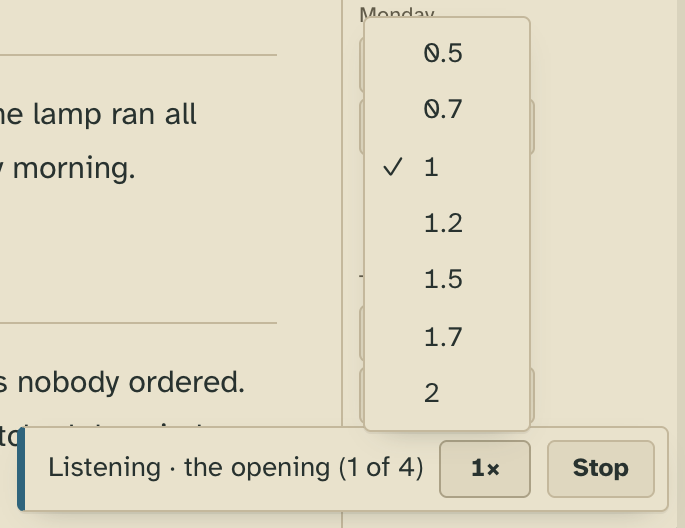
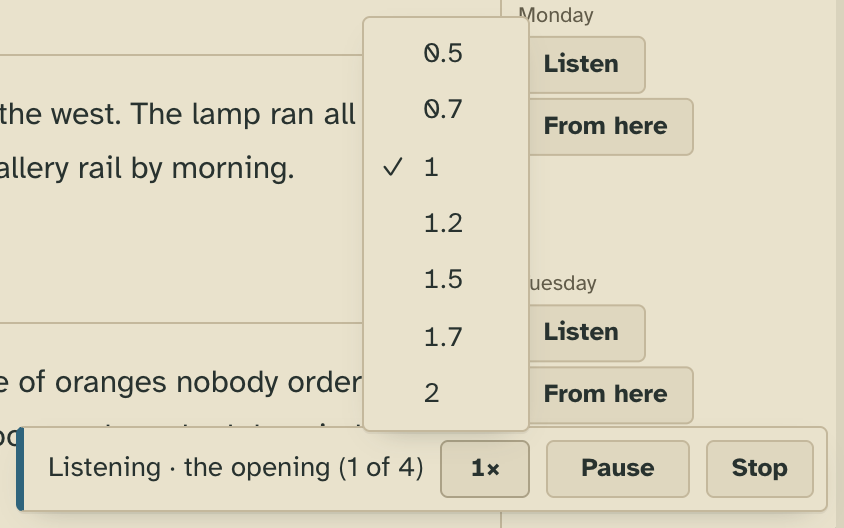
Narrate's player pauses and resumes a reading where it is
The player gains Pause beside the speed and Stop: it holds the voice where it is, the chunk sounding
or the next about to (a voiced chunk that comes due while paused waits for the resume), and turns to
Resume, in every player at once. The palette gains Pause listening and Resume listening. A stop while
paused ends the chunk held and clears the pause, so the next reading sounds; a memo that comes
meanwhile waits its turn. The README and the player's pictures show it; narrate moves to 1.9.

diff --git a/examples/extensions/narrate/client/voice.js b/examples/extensions/narrate/client/voice.js
@@ -4,7 +4,8 @@
  * and played in order through one audio element, the next voiced while one plays; without one, the browser's own
  * speech (`speechSynthesis`) reads them. A narration is told through its track: `at(part)` as a part starts sounding,
  * and `end()` once, as it ends or is stopped. A memo (`interject`) is said at once when nothing reads; while something
- * does, it waits for the chunk sounding to end, is said, and the reading goes on.
+ * does, it waits for the chunk sounding to end, is said, and the reading goes on. A narration paused holds where it is,
+ * the chunk sounding or the next about to, until it is resumed or stopped; a memo that comes meanwhile waits its turn.
  */
 
 /** The most characters voiced in one call: a chunk is cut at a paragraph, else a sentence, else a space. */
@@ -45,6 +46,28 @@ let waiting = []
 /** The track of the memo sounding between chunks, ended by a stop. @type {Track | undefined} */
 let saying
 
+/** Whether the narration is paused: from a pause until a resume, a stop or its end. */
+let paused = false
+
+/** The chunk's start a pause held back: it came due while paused, and sounds on resume. @type {(() => void) | undefined} */
+let held
+
+/**
+ * The chunk the audio holds, from its source set until it ends: `end` ends it, as a stop does (a paused audio fires no
+ * pause to end it), `fail` with an error. @type {{ end(): void, fail(err: Error): void } | undefined}
+ */
+let chunk
+
+/** Told of every pause and resume, with whether it is now paused. @type {Set<(paused: boolean) => void>} */
+const hearing = new Set()
+
+/** Tells those hearing whether the narration is paused now, as that changes. @param {boolean} now */
+const pausing = (now) => {
+  if (paused === now) return
+  paused = now
+  for (const heard of hearing) heard(now)
+}
+
 /** The current narration's utterances, held while they are read: WebKit fires no event on one nothing holds. */
 let utterances = []
 
@@ -84,21 +107,25 @@ const voiced = async (tower, text) => {
 const chunked = (parts) => parts.flatMap((text, part) => chunksOf(text).map((chunk) => ({ text: chunk, part })))
 
 /**
- * Plays `url` for narration `mine`, calling `onStart` once it sounds: to its end, or until a halt pauses it. A pause
- * from elsewhere (a media key) stays a pause. Rejects when it can't play.
+ * Plays `url` for narration `mine`, calling `onStart` once it sounds: to its end, or until a halt ends it. A pause,
+ * ours or from elsewhere (a media key), stays a pause; one that comes before it sounds holds its start until resumed.
+ * Rejects when it can't play.
  */
 const play = (url, mine, onStart) =>
   new Promise((resolve, reject) => {
     const done = (err) => {
       audio.onended = audio.onpause = audio.onerror = null
+      chunk = undefined
       URL.revokeObjectURL(url)
       err ? reject(err) : resolve()
     }
     audio.onended = () => done()
     audio.onpause = () => mine !== current && done()
     audio.onerror = () => done(new Error(`the voice's audio won't play: ${audio.error?.message || `media error ${audio.error?.code}`}`))
+    chunk = { end: () => done(), fail: done }
     audio.src = url
-    audio.play().then(onStart, (err) => done(mine === current ? err : undefined))
+    const start = () => void audio.play().then(onStart, (err) => done(mine === current ? err : undefined))
+    paused ? (held = start) : start()
   })
 
 /**
@@ -139,6 +166,8 @@ const once = (fn) => {
 const finish = (mine) => {
   if (mine !== current) return
   reading = false
+  held = undefined
+  pausing(false)
   const end = ending
   ending = () => {}
   end()
@@ -255,8 +284,12 @@ const sayingNow = (memo) => {
 /** Stops whichever voice reads, ends its track, and answers the number of a narration started now. */
 const halt = () => {
   speechSynthesis.cancel()
+  speechSynthesis.resume()
   utterances = []
   audio.pause()
+  chunk?.end()
+  held = undefined
+  pausing(false)
   reading = false
   saying?.end()
   saying = undefined
@@ -270,4 +303,32 @@ const halt = () => {
 export function stop() {
   waiting = []
   halt()
+}
+
+/** Pauses the narration where it is, the chunk sounding or the next about to, while one reads. */
+export function pause() {
+  if (!reading || paused) return
+  pausing(true)
+  speechSynthesis.pause()
+  audio.pause()
+}
+
+/** Goes on reading from where the narration was paused. */
+export function resume() {
+  if (!paused) return
+  pausing(false)
+  speechSynthesis.resume()
+  const start = held
+  held = undefined
+  if (start) start()
+  else if (chunk) audio.play().catch(chunk.fail)
+}
+
+/** Whether the narration is paused now. */
+export const isPaused = () => paused
+
+/** Calls `heard` with whether the narration is paused, at every pause and resume until the function answered is called. */
+export function onPause(heard) {
+  hearing.add(heard)
+  return () => void hearing.delete(heard)
 }

diff --git a/examples/extensions/narrate/client/player.js b/examples/extensions/narrate/client/player.js
@@ -1,7 +1,8 @@
 /**
  * Narration's player: while something is read, a bar of narrate's own at the bottom right of the page says what is
- * read, with the speed and Stop. It answers what a notice answers (`say`, `close`), so a reading tells it as it would a
- * notice. The speed is a button that opens a menu of the speeds, a check by the one read at, as Google Docs' reader
+ * read, with the speed, Pause and Stop. It answers what a notice answers (`say`, `close`), so a reading tells it as it
+ * would a notice. Pause holds the voice where it is and turns to Resume, in every player at once, as the palette's
+ * Pause listening and Resume listening do. The speed is a button that opens a menu of the speeds, a check by the one read at, as Google Docs' reader
  * does: a popover, so a press elsewhere closes it, as Escape does (focus back on the button); the arrow keys move
  * along it. It follows the speed as this page changes it (the palette, another player) through `tower.store.on`, which
  * hears only the keys this page sets: a speed picked in another tab shows from its next reading. A memo said in the
@@ -9,6 +10,7 @@
  * removed as what it tells ends, their stack with the last.
  */
 import { chooseSpeed, SPEED_KEY, SPEEDS, speedOf, speedWords } from './speed.js'
+import * as voice from './voice.js'
 
 const STYLE = `
 [data-narrate-players] { position: fixed; right: 20px; bottom: 56px; z-index: 20; display: flex; flex-direction: column; align-items: flex-end;
@@ -18,6 +20,7 @@ const STYLE = `
 [data-narrate-player] .words { flex: 1; min-width: 0; overflow: hidden; text-overflow: ellipsis; white-space: nowrap; }
 [data-narrate-player] button { flex: none; }
 [data-narrate-player] .speed { min-width: 3.5em; font-variant-numeric: tabular-nums; }
+[data-narrate-player] .pause { min-width: 5.5em; }
 [data-narrate-player] .speeds { position: fixed; inset: auto; margin: 0; padding: var(--sp-xs) 0; min-width: 6em; background: var(--panel); color: var(--ink);
   border: 1px solid var(--line); border-radius: var(--radius); box-shadow: var(--shadow); }
 [data-narrate-player] .speeds button { display: grid; grid-template-columns: 1.5em auto; width: 100%; padding: var(--sp-xs) var(--sp-l) var(--sp-xs) var(--sp-m);
@@ -99,7 +102,22 @@ const speedMenu = (choose) => {
 }
 
 /**
- * Opens a player saying `words`, at the viewer's speed, its Stop running `stop`. Answers `say` to tell it anew and
+ * The pause button: Pause while the voice reads, Resume while it is paused, following the voice as any player or the
+ * palette pauses it. Answers the button and `close`, which stops following.
+ */
+const pauseButton = () => {
+  const button = el('button', 'pause')
+  const show = (paused) => {
+    button.textContent = paused ? 'Resume' : 'Pause'
+    button.setAttribute('aria-pressed', String(paused))
+  }
+  button.addEventListener('click', () => (voice.isPaused() ? voice.resume() : voice.pause()))
+  show(voice.isPaused())
+  return { button, close: voice.onPause(show) }
+}
+
+/**
+ * Opens a player saying `words`, at the viewer's speed, with Pause, its Stop running `stop`. Answers `say` to tell it anew and
  * `close` to remove it.
  */
 export function openPlayer({ tower, words, stop }) {
@@ -109,9 +127,10 @@ export function openPlayer({ tower, words, stop }) {
   bar.setAttribute('aria-label', 'Narration')
   const said = el('span', 'words', words)
   const speed = speedMenu((rate) => void chooseSpeed(tower, rate))
+  const hold = pauseButton()
   const halt = el('button', '', 'Stop')
   halt.addEventListener('click', () => void stop())
-  bar.append(said, speed.button, halt, speed.menu)
+  bar.append(said, speed.button, hold.button, halt, speed.menu)
   stackOf().prepend(bar)
 
   const shown = async () => speed.show(await speedOf(tower))
@@ -122,6 +141,7 @@ export function openPlayer({ tower, words, stop }) {
     say: (next) => void (said.textContent = next),
     close() {
       unhear()
+      hold.close()
       bar.remove()
       if (stack && !stack.querySelector('[data-narrate-player]')) (stack.remove(), (stack = undefined))
     },

diff --git a/examples/extensions/narrate/client/narrate.js b/examples/extensions/narrate/client/narrate.js
@@ -1,10 +1,10 @@
 /**
  * Narration's commands, run by renderers that import client modules: `speak` is offered on every markdown or text item
  * and file a worker showed, on each section of a markdown document and each prompt and answer of a brief; `fromHere`
- * on each section of a markdown document; `stop` in the palette. Each reads through `window.tower`, as any renderer
+ * on each section of a markdown document; `pause`, `resume` and `stop` in the palette. Each reads through `window.tower`, as any renderer
  * does, and speaks through `voice.js`: the voice command when narrate's settings set one, else the browser's own
  * speech. While it reads, the part being read is marked on the page's bus (a document draws its section marked) and a
- * notice says what is read, with Stop.
+ * player says what is read, with its speed, Pause and Stop.
  */
 import { textOf } from '/cards.js'
 import { openPlayer } from './player.js'
@@ -88,6 +88,16 @@ export function speak(ctx) {
 export function fromHere(ctx) {
   const { target, kit } = ctx
   return read(ctx, sectionsOf(kit.bus, target.value.of).filter((s) => s.value.n >= target.value.n))
+}
+
+/** Pauses reading where it is. */
+export function pause() {
+  voice.pause()
+}
+
+/** Goes on reading from where it was paused. */
+export function resume() {
+  voice.resume()
 }
 
 /** Stops reading. */

diff --git a/examples/extensions/narrate/README.md b/examples/extensions/narrate/README.md
@@ -20,7 +20,8 @@ Listen reads that section; From here reads from it to the end, the section being
 | ![The gutter while Monday is read](shots/sections-light.png) | ![The gutter while Monday is read](shots/sections-dark.png) |
 
 **A player at the bottom right of the page** for as long as it reads, wherever you go on the page: what it reads,
-**the speed**, and **Stop**. The speed opens a menu of 0.5, 0.7, 1, 1.2, 1.5, 1.7 and 2, a check by the one it reads
+**the speed**, **Pause**, and **Stop**. Pause holds the reading where it is and turns to **Resume**, which goes on from
+there; a memo that comes while it is paused waits for it. The speed opens a menu of 0.5, 0.7, 1, 1.2, 1.5, 1.7 and 2, a check by the one it reads
 at, as Google Docs' reader has; a pick speeds up the part sounding at once, documents and memos alike, and every page of
 yours reads at it from then on (it is kept in `tower.store`, under `narrate.speed`). A memo said while a document is
 read stands its own player above the document's.
@@ -40,6 +41,7 @@ Listen also appears on every markdown or text kept item, beside each prompt and 
 the palette.
 
 **Read faster and Read slower in the palette** step the same speed along the menu's, a toast saying where it is.
+**Pause listening**, **Resume listening** and **Stop listening** there do what the player's buttons do.
 
 ### The workers
 

diff --git a/kb/entities/decisions/ui-model.md b/kb/entities/decisions/ui-model.md
@@ -159,7 +159,7 @@ and a framed document's section are the same thing.
   by one rule as it is drawn ([`writeLinks`](ref:hub/src/views/frame.ts#writeLinks), [[markdown-safe]]). The narrate example
   ([`extension.json`](ref:hub/examples/extensions/narrate/extension.json)) is the proof: Listen on `section` and on
   `said`, From here on `section` (that section and the ones after it, read off the bus), Listen on the whole file
-  section by section where the page draws it so, the section read marked and a player of its own with the speed and Stop while it reads (an element of the command's, as a notice holds one action). Open: a chord on a viewer kind resolves only with the focus on that
+  section by section where the page draws it so, the section read marked and a player of its own with the speed, Pause and Stop while it reads (an element of the command's, as a notice holds one action). Open: a chord on a viewer kind resolves only with the focus on that
   subject's own region (a gutter row, a bubble), not the viewer subject under a subject in focus (`bus.under`, §10),
   which is ambiguous with many sections standing; the palette doesn't yet list commands on the viewer subjects in
   focus; `display` of a section of a `file` can't walk up, since [`displayed`](ref:hub/src/shared/views.ts#displayed)
